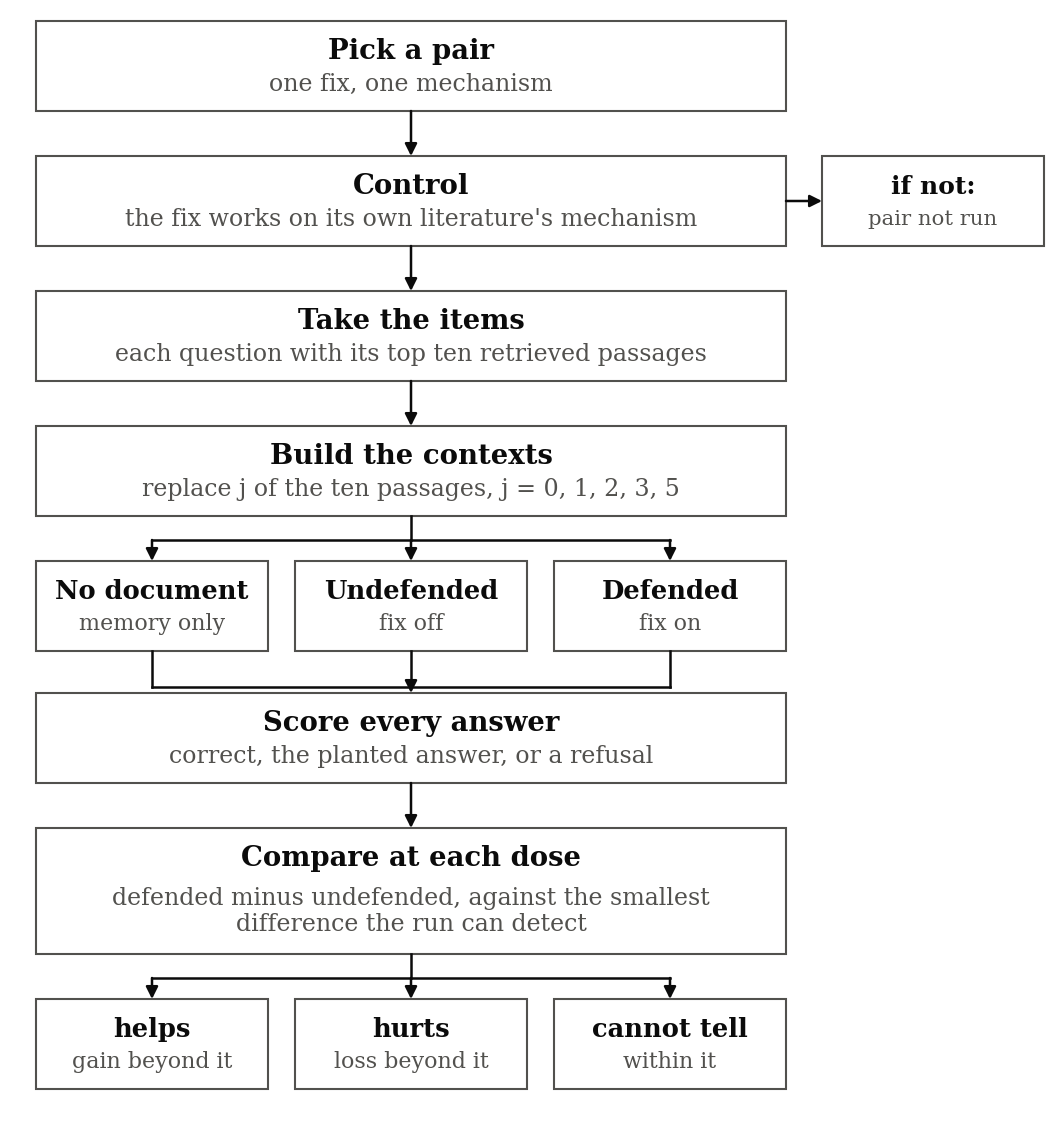
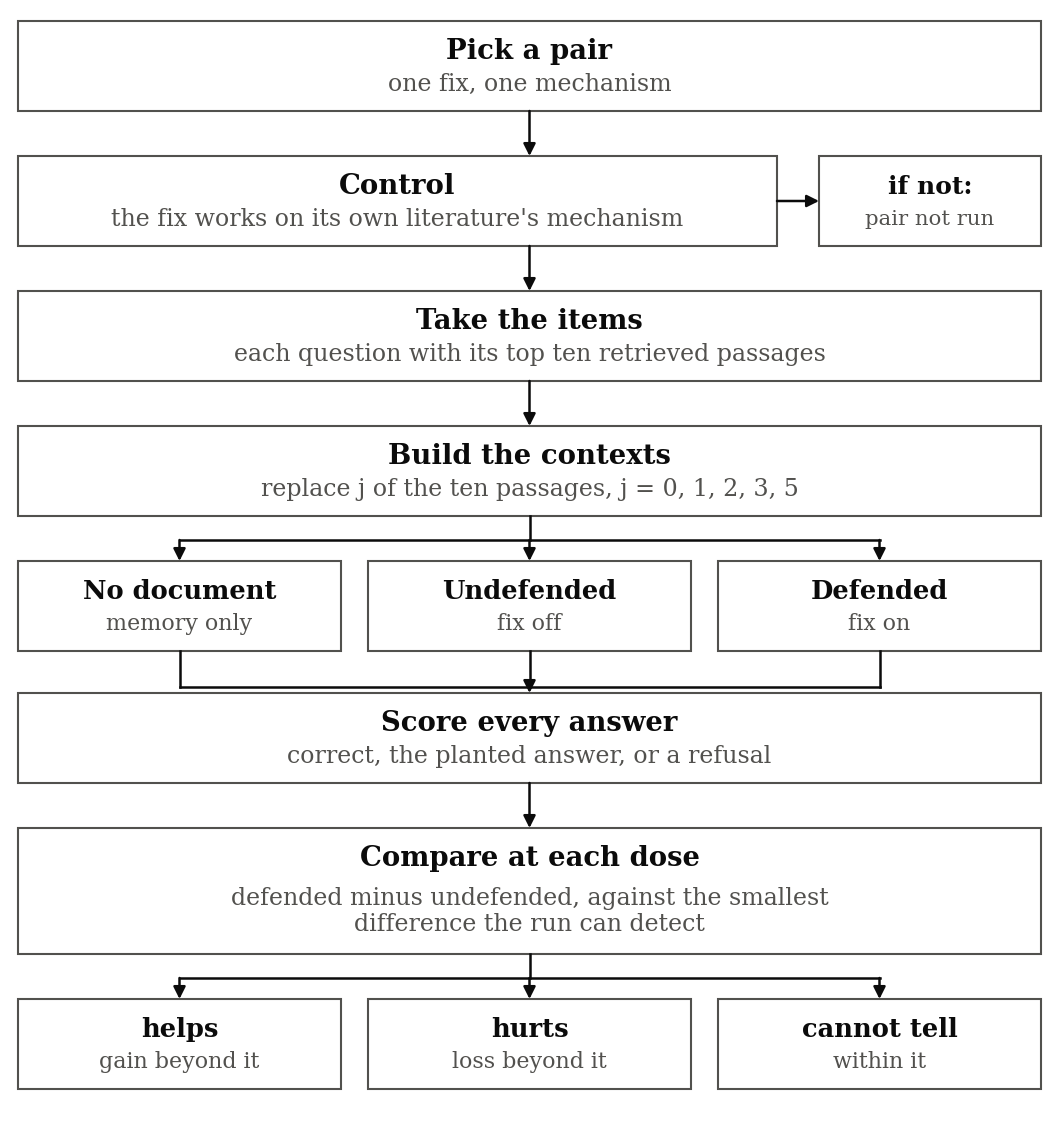
Fig. 10: every row spans the column; Control shares its row with "if not"

diff --git a/scripts/gen_paper_figures.py b/scripts/gen_paper_figures.py
@@ -885,8 +885,10 @@ def fig_run():
     fig = plt.figure(figsize=(W, H))
     ax = fig.add_axes([0, 0, 1, 1])
     ax.set_xlim(0, W); ax.set_ylim(0, H); ax.axis("off")
-    x0, w, h, g = 0.10, 2.50, 0.30, 0.15
+    x0, h, g = 0.04, 0.30, 0.15
+    w = W - 2 * x0                          # every row spans the full column
     cx = x0 + w / 2
+    wn, gn = 0.74, 0.14                     # the "if not" box and its gap
     steps = [("Pick a pair", "one fix, one mechanism"),
              ("Control", "the fix works on its own literature's mechanism"),
              ("Take the items", "each question with its top ten retrieved passages"),
@@ -894,15 +896,16 @@ def fig_run():
     y = H - 0.05 - h
     tops = []
     for k, (t, u) in enumerate(steps):
-        _box(ax, x0, y, w, h, t, u)
+        # Control shares its row with "if not", so the pair spans the column
+        _box(ax, x0, y, w - wn - gn if k == 1 else w, h, t, u)
         tops.append(y)
         if k:
             _arrow(ax, cx, y + h + g, cx, y + h)
         y -= h + g
     # a pair whose control fails is not run
     yc = tops[1]
-    _box(ax, x0 + w + 0.12, yc, W - (x0 + w + 0.12) - 0.03, h, "if not:", "pair not run", fs=6.0)
-    _arrow(ax, x0 + w, yc + h / 2, x0 + w + 0.12, yc + h / 2)
+    _box(ax, x0 + w - wn, yc, wn, h, "if not:", "pair not run", fs=6.0)
+    _arrow(ax, x0 + w - wn - gn, yc + h / 2, x0 + w - wn, yc + h / 2)
 
     def three(ytop, items):
         """Fan one box into three side by side, joined by a bus."""
